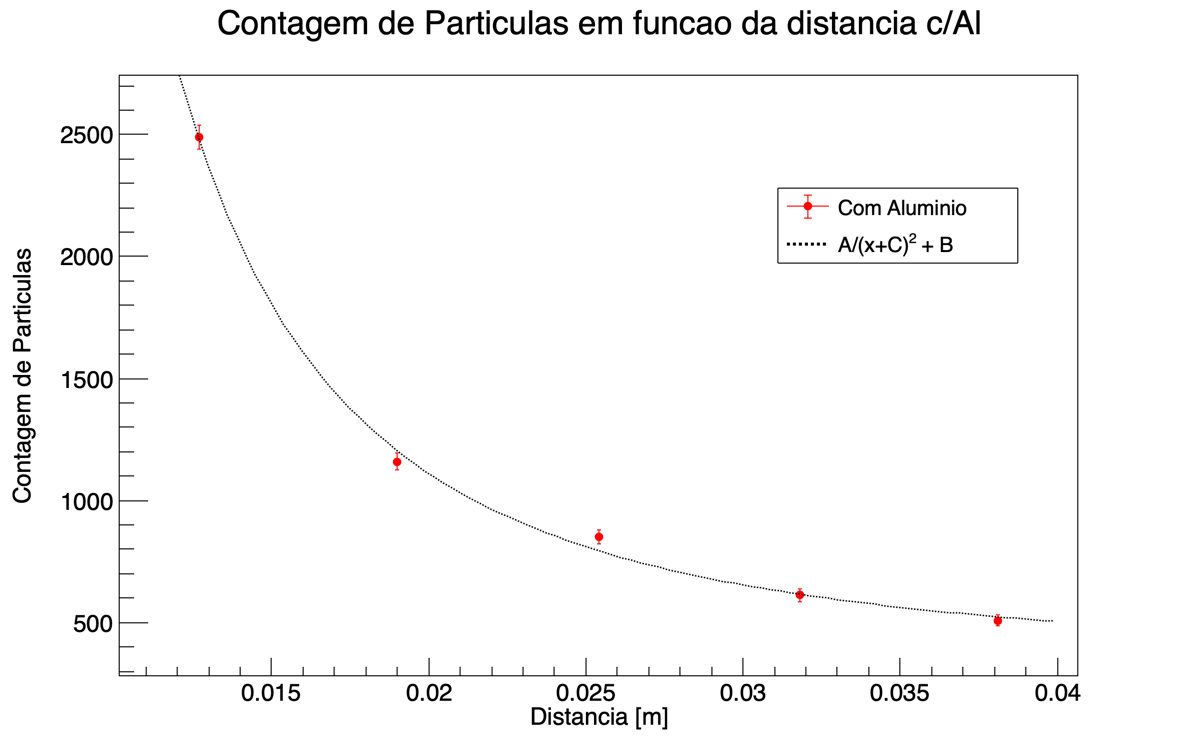
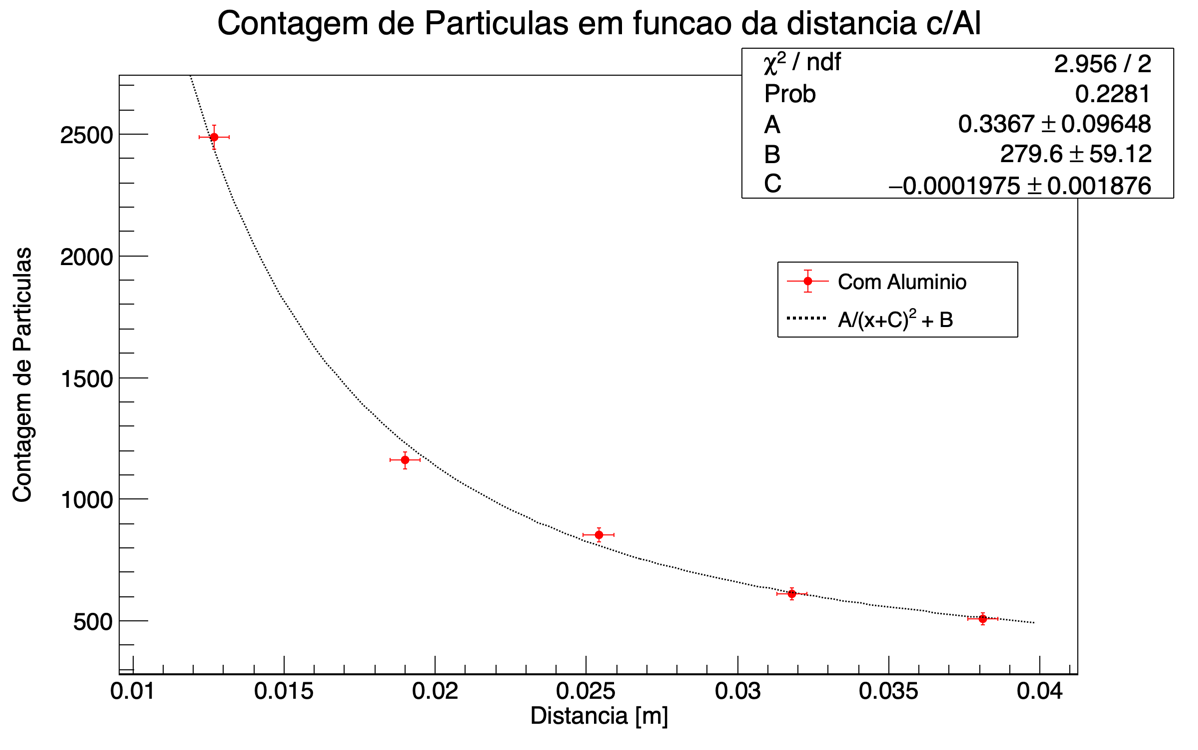
Graphs

diff --git a/Geiger_Muller/main/analise.cpp b/Geiger_Muller/main/analise.cpp
@@ -44,7 +44,7 @@ for (int i = 0; i < numPoints; i++) {
 }
 
 TGraphErrors graph_plateau(numPoints, &xValues[0], &yValues[0], &exValues[0], &eyValues[0]);
-
+gStyle->SetOptFit(1111);
 // Set Graph Style
 graph_plateau.SetMarkerStyle(20);
 graph_plateau.SetMarkerColor(kRed);
@@ -88,10 +88,11 @@ gSystem->ProcessEvents();
     vector<double> counts_al_uncertain = { 50, 34, 29, 25, 23};
     vector<double> counts_without_al = {83388, 36599, 13334, 4711, 3747};
     vector<double> counts_without_al_uncertain = {289, 191, 115, 69, 61};
+    vector<double> uncertainty_distance = {0.0005, 0.0005, 0.0005, 0.0005, 0.0005};
 
     // Create Graph
-    TGraphErrors graph_al(distances.size(), &distances[0], &counts_al[0], nullptr, &counts_al_uncertain[0]);
-    TGraphErrors graph_without_al(distances.size(), &distances[0], &counts_without_al[0], nullptr, &counts_without_al_uncertain[0]);
+    TGraphErrors graph_al(distances.size(), &distances[0], &counts_al[0], &uncertainty_distance[0], &counts_al_uncertain[0]);
+    TGraphErrors graph_without_al(distances.size(), &distances[0], &counts_without_al[0], &uncertainty_distance[0], &counts_without_al_uncertain[0]);
 
     // Set Graph Style
     graph_al.SetMarkerStyle(20);
@@ -113,7 +114,7 @@ gSystem->ProcessEvents();
     graph_without_al.GetYaxis()->CenterTitle();
 
     // Create Legend
-    TLegend legend(0.65, 0.65, 0.85, 0.75);
+    TLegend legend(0.65, 0.55, 0.85, 0.65);
     legend.SetTextSize(0.03);
 
     // Fit
@@ -130,7 +131,8 @@ gSystem->ProcessEvents();
     TF1 fit2("fit2", "[0]/((x+[2])**2) + [1]", 0, 0.04);
     fit2.SetParameter(0, 1);
     fit2.SetParameter(1, 1);
-    fit2.SetParameter(2, 0.0238);
+    fit2.SetParameter(2, 0);
+    fit2.SetParLimits(2, -0.005, 0.005);
     fit2.SetParName(0, "A");
     fit2.SetParName(1, "B");
     fit2.SetParName(2, "C");
